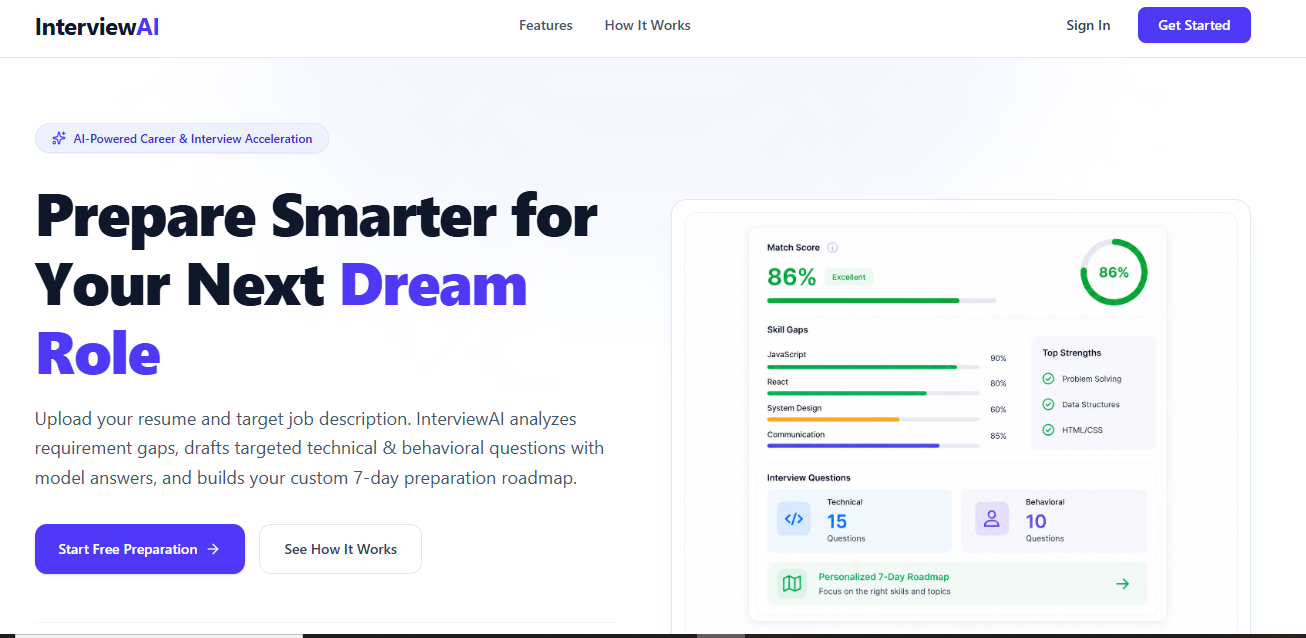
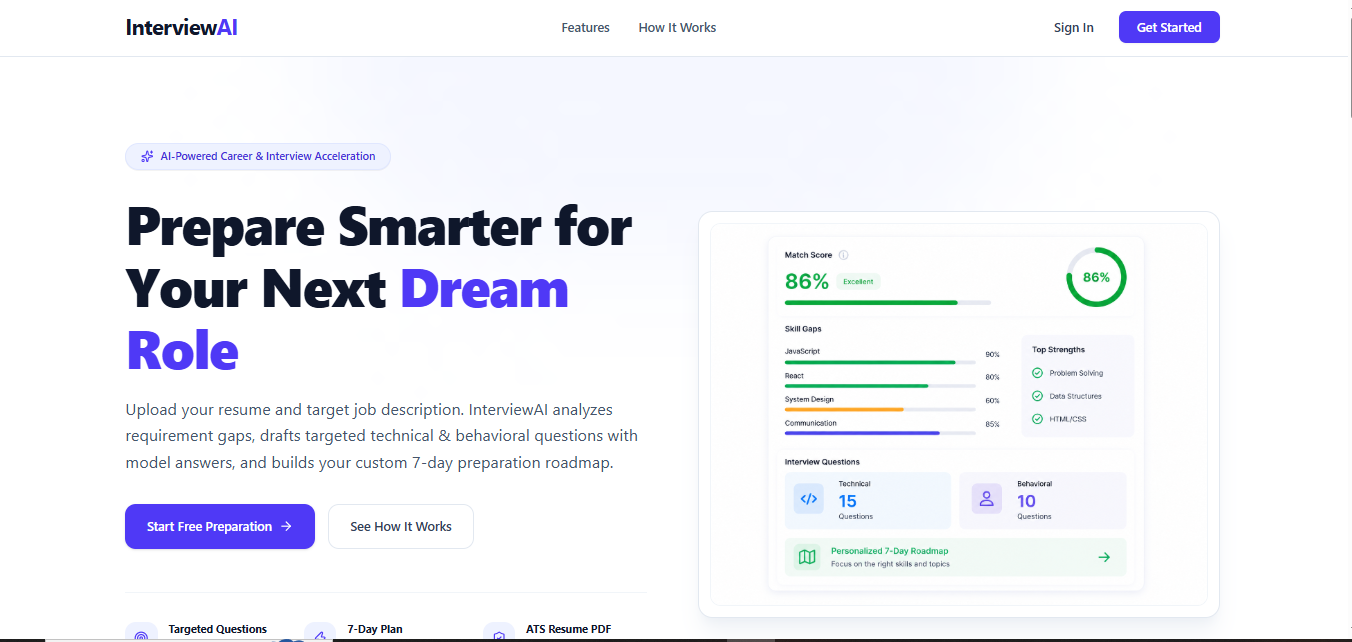
update portfolio

diff --git a/src/data/portfolioData.js b/src/data/portfolioData.js
@@ -8,18 +8,19 @@ import resumePdf from '../assets/Gagan_Resume.pdf';
 export const personalInfo = {
   name: "Gagan Nagar",
   role: "Software Engineer | Full Stack Developer",
-  status: "Available for opportunities",
+  status: "Open to new opportunities",
   location: "Indore, India",
-  headline: "Full Stack Developer shipping interfaces that feel instant.",
-  subhead: "Specializing in React.js and the MERN stack. Building modern, AI-powered web applications with clean architecture and intuitive user experiences.",
+  headline: "Full Stack Developer building smarter solutions",
+  subhead:
+    "Full Stack Developer specializing in React.js and the MERN stack, with a focus on clean architecture, reliable functionality, and intuitive user experiences.",
   typedStrings: [
-    "I craft engaging digital experiences.",
-    "Transforming ideas into robust web solutions.",
-    "Specializing in React.js & MERN Stack.",
-    "Passionate about clean code and AI tools.",
-    "Let's build something amazing together."
+    "I build modern, scalable web applications.",
+    "Turning ideas into practical digital products.",
+    "Full Stack Developer specializing in React.js and MERN.",
+    "Creating intuitive experiences with clean architecture.",
+    "Exploring AI to build smarter products.",
   ],
-  bio: `I am a Full Stack Developer specializing in React.js and the MERN stack. I build modern, AI-powered web applications using JavaScript, Node.js, Express.js, and MongoDB, with a relentless focus on clean architecture, seamless functionality, and intuitive user experiences. I enjoy turning complex ideas into high-performance web solutions and exploring AI-driven technologies to build smarter applications.`,
+  bio: `I'm Gagan Nagar, a Full Stack Developer specializing in modern, scalable, and AI-powered web applications. I enjoy turning ideas into functional products, with a focus on clean architecture, seamless functionality, and intuitive user experiences. Through projects like InterviewAI and RepairOps, I bring a practical, product-oriented mindset to building reliable solutions. I also explore AI-assisted development to work more efficiently and find smarter ways to build.`,
   resumePdf: resumePdf,
   resumeFileName: "GaganNagar_Resume.pdf",
 };
@@ -42,9 +43,9 @@ export const contactDetails = {
 };
 
 export const metricsData = [
-  { value: "04+", label: "Products Built", detail: "Full Stack & AI Web Apps" },
+  { value: "03+", label: "Products Built", detail: "Full Stack & AI Web Apps" },
   { value: "MERN", label: "Core Specialization", detail: "React, Node, Express, Mongo" },
-  { value: "08mo", label: "Production Experience", detail: "Frontend & Full Stack Roles" },
+  { value: "06mo", label: "Production Experience", detail: "Frontend & Full Stack Roles" },
   { value: "100%", label: "Clean Code & Speed", detail: "Responsive & Performance Focused" },
 ];
 
@@ -76,7 +77,18 @@ export const projectsData = [
     liveLink: "https://careerway-ai.vercel.app/"
   },
   {
-    id: 2,
+  id: 2,
+  title: "RepairOps",
+  category: "Backend API",
+  metric: "12+ REST API Endpoints",
+  desc: "A backend-focused repair management system with APIs for repair requests, technician assignments, estimates, and status tracking, secured with JWT and role-based authorization.",
+  image: "/repairOps.png",
+  tech: ["Node.js", "Express.js", "MongoDB", "JWT", "REST APIs"],
+  githubLink: "https://github.com/GaganNagar/RepairOps",
+  liveLink: null
+},
+  {
+    id: 3,
     title: "Employee Management System",
     category: "Enterprise Dashboard",
     metric: "Role-Based Auth (Admin/Emp)",
@@ -87,8 +99,8 @@ export const projectsData = [
     liveLink: null
   },
   {
-    id: 3,
-    title: "Personal Portfolio Website",
+    id: 4,
+    title: "Portfolio Website",
     category: "Frontend & UX",
     metric: "Framer-Inspired Engineering UI",
     desc: "A modern, high-performance portfolio built to showcase technical skills and projects with dark mode support, smooth interactions, and metrics-driven design.",
@@ -119,9 +131,8 @@ export const experiencesData = [
     location: "Indore, India",
     badge: "Full Stack Training",
     description: [
-      "Built end-to-end MERN stack features across 3 internal projects, developing MongoDB schemas, Express.js REST APIs, and React.js interfaces.",
-      "Implemented JWT authentication and MongoDB CRUD operations, connecting React forms with Express APIs and persistent database workflows.",
-      "Collaborated through Git branching, code reviews, and sprint-based development, incorporating senior developer feedback into application delivery."
+      "Worked on MERN stack applications, developing React.js interfaces, Express.js REST APIs, and MongoDB schemas for application features.",
+      "Implemented JWT authentication and CRUD operations, integrating React forms with Express APIs and MongoDB for persistent data management."
     ]
   }
 ];

diff --git a/src/components/About.jsx b/src/components/About.jsx
@@ -35,7 +35,7 @@ function About() {
             <div className="h-px w-12 bg-violet-600/30 dark:bg-violet-400/30"></div>
           </div>
           <h2 className="text-3xl sm:text-4xl md:text-5xl font-extrabold tracking-tight text-zinc-900 dark:text-zinc-50 leading-tight">
-            I build product interfaces that feel instant and stay that way.
+            Building modern, scalable, AI-powered web applications.
           </h2>
         </div>
 
@@ -43,10 +43,10 @@ function About() {
         <div className="grid grid-cols-1 md:grid-cols-12 gap-8 lg:gap-12 items-start mb-16" data-aos="fade-up">
           <div className="md:col-span-8 space-y-5 text-base sm:text-lg text-zinc-600 dark:text-zinc-400 leading-relaxed">
             <p>
-              I am a <span className="font-semibold text-zinc-900 dark:text-zinc-100">Full Stack Developer</span> specializing in <span className="font-semibold text-zinc-900 dark:text-zinc-100">React.js and the MERN stack</span>. I build modern, AI-powered web applications using JavaScript, Node.js, Express.js, and MongoDB, with a relentless focus on clean architecture, seamless functionality, and intuitive user experiences.
+              I&apos;m Gagan Nagar, a <span className="font-semibold text-zinc-900 dark:text-zinc-100">Full Stack Developer</span> specializing in building modern, scalable, and AI-powered web applications.
             </p>
             <p>
-              My development philosophy is centered around craft: speed is a feature, accessibility is not optional, and the best code is the code the next engineer can read and build upon. Whether architecting database schemas or polishing micro-interactions, I treat every project as a product that must deliver tangible value.
+              I enjoy turning ideas into functional products, focusing on clean architecture, seamless functionality, and intuitive user experiences. I&apos;ve worked on projects like InterviewAI and RepairOps, where I focus on creating practical solutions with a product-oriented mindset. My approach is simple: write clean code, think beyond individual features, and treat every project as a complete product. I also explore AI-assisted development to improve efficiency and find smarter ways to build.
             </p>
           </div>
 

diff --git a/src/components/Hero.jsx b/src/components/Hero.jsx
@@ -49,9 +49,9 @@ function Hero() {
             {/* Left Column: Headlines & CTAs */}
             <div className="lg:col-span-8 space-y-6" data-aos="fade-right">
               <h1 className="text-4xl sm:text-5xl md:text-6xl font-extrabold tracking-tight text-zinc-900 dark:text-zinc-50 leading-[1.1]">
-                Full Stack developer shipping interfaces that{' '}
+                Full Stack Developer turning ideas into {' '}
                 <span className="bg-gradient-to-r from-violet-600 via-purple-600 to-indigo-600 dark:from-violet-400 dark:via-purple-300 dark:to-indigo-300 bg-clip-text text-transparent">
-                  feel instant.
+                  products
                 </span>
               </h1>
 
@@ -101,7 +101,7 @@ function Hero() {
                 {/* Glow ring */}
                 <div className="absolute -inset-1 rounded-3xl bg-gradient-to-r from-violet-600/40 to-indigo-600/40 blur-xl opacity-60 group-hover:opacity-100 transition duration-500"></div>
 
-                <div className="relative w-48 h-48 sm:w-56 sm:h-56 md:w-64 md:h-64 rounded-3xl overflow-hidden bg-zinc-100 dark:bg-zinc-900 border-2 border-zinc-200 dark:border-zinc-800 shadow-2xl">
+                <div className="relative w-60 h-60 sm:w-68 sm:h-68 md:w-76 md:h-76 rounded-3xl overflow-hidden bg-zinc-100 dark:bg-zinc-900 border-2 border-zinc-200 dark:border-zinc-800 shadow-2xl">
                   <img
                     src={profileImg}
                     alt={personalInfo.name}
